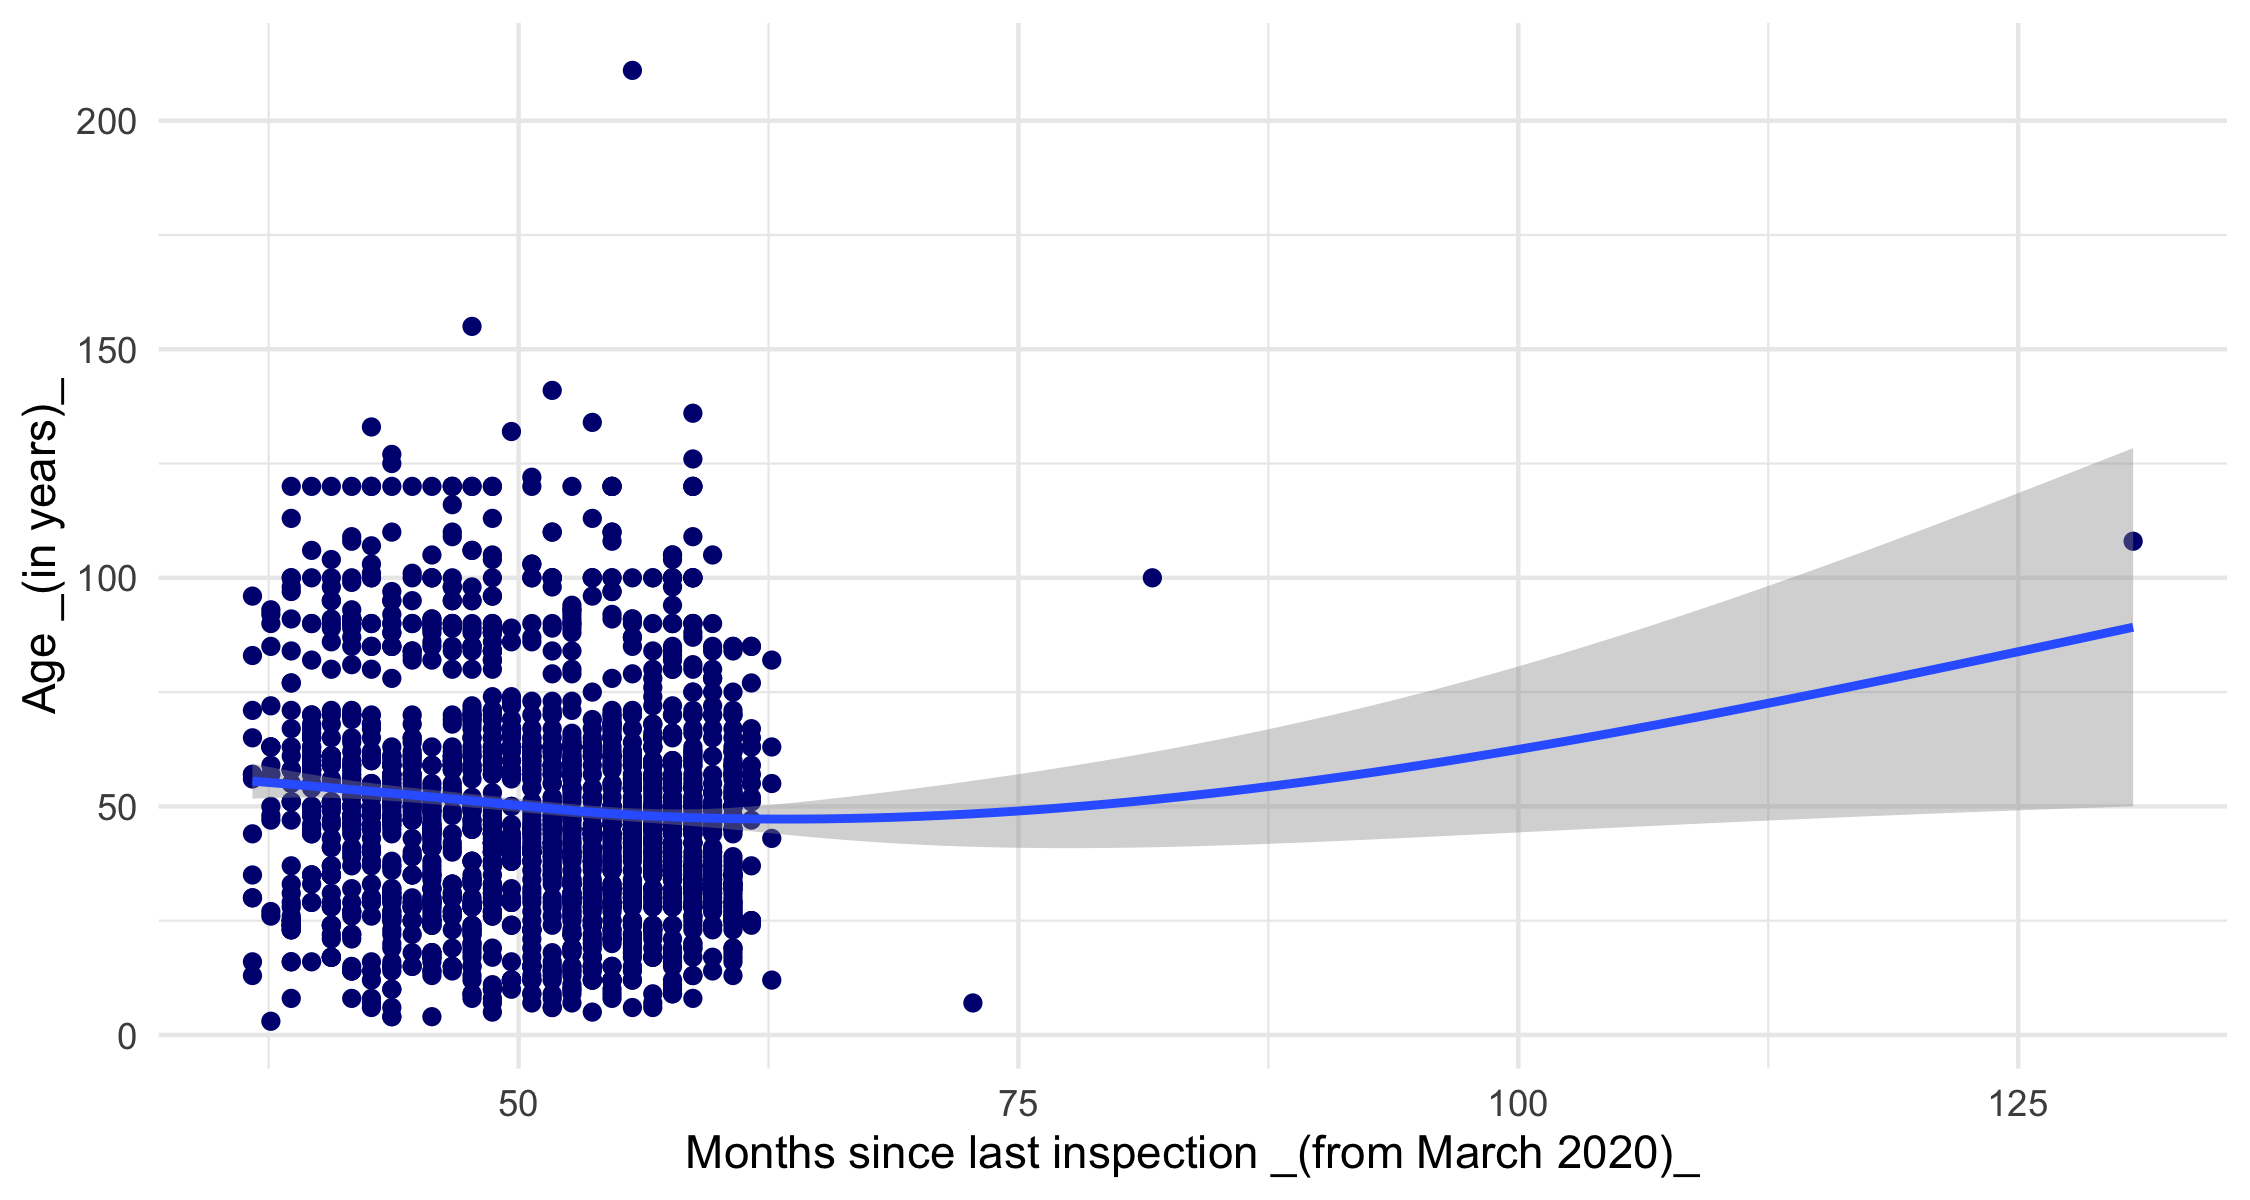
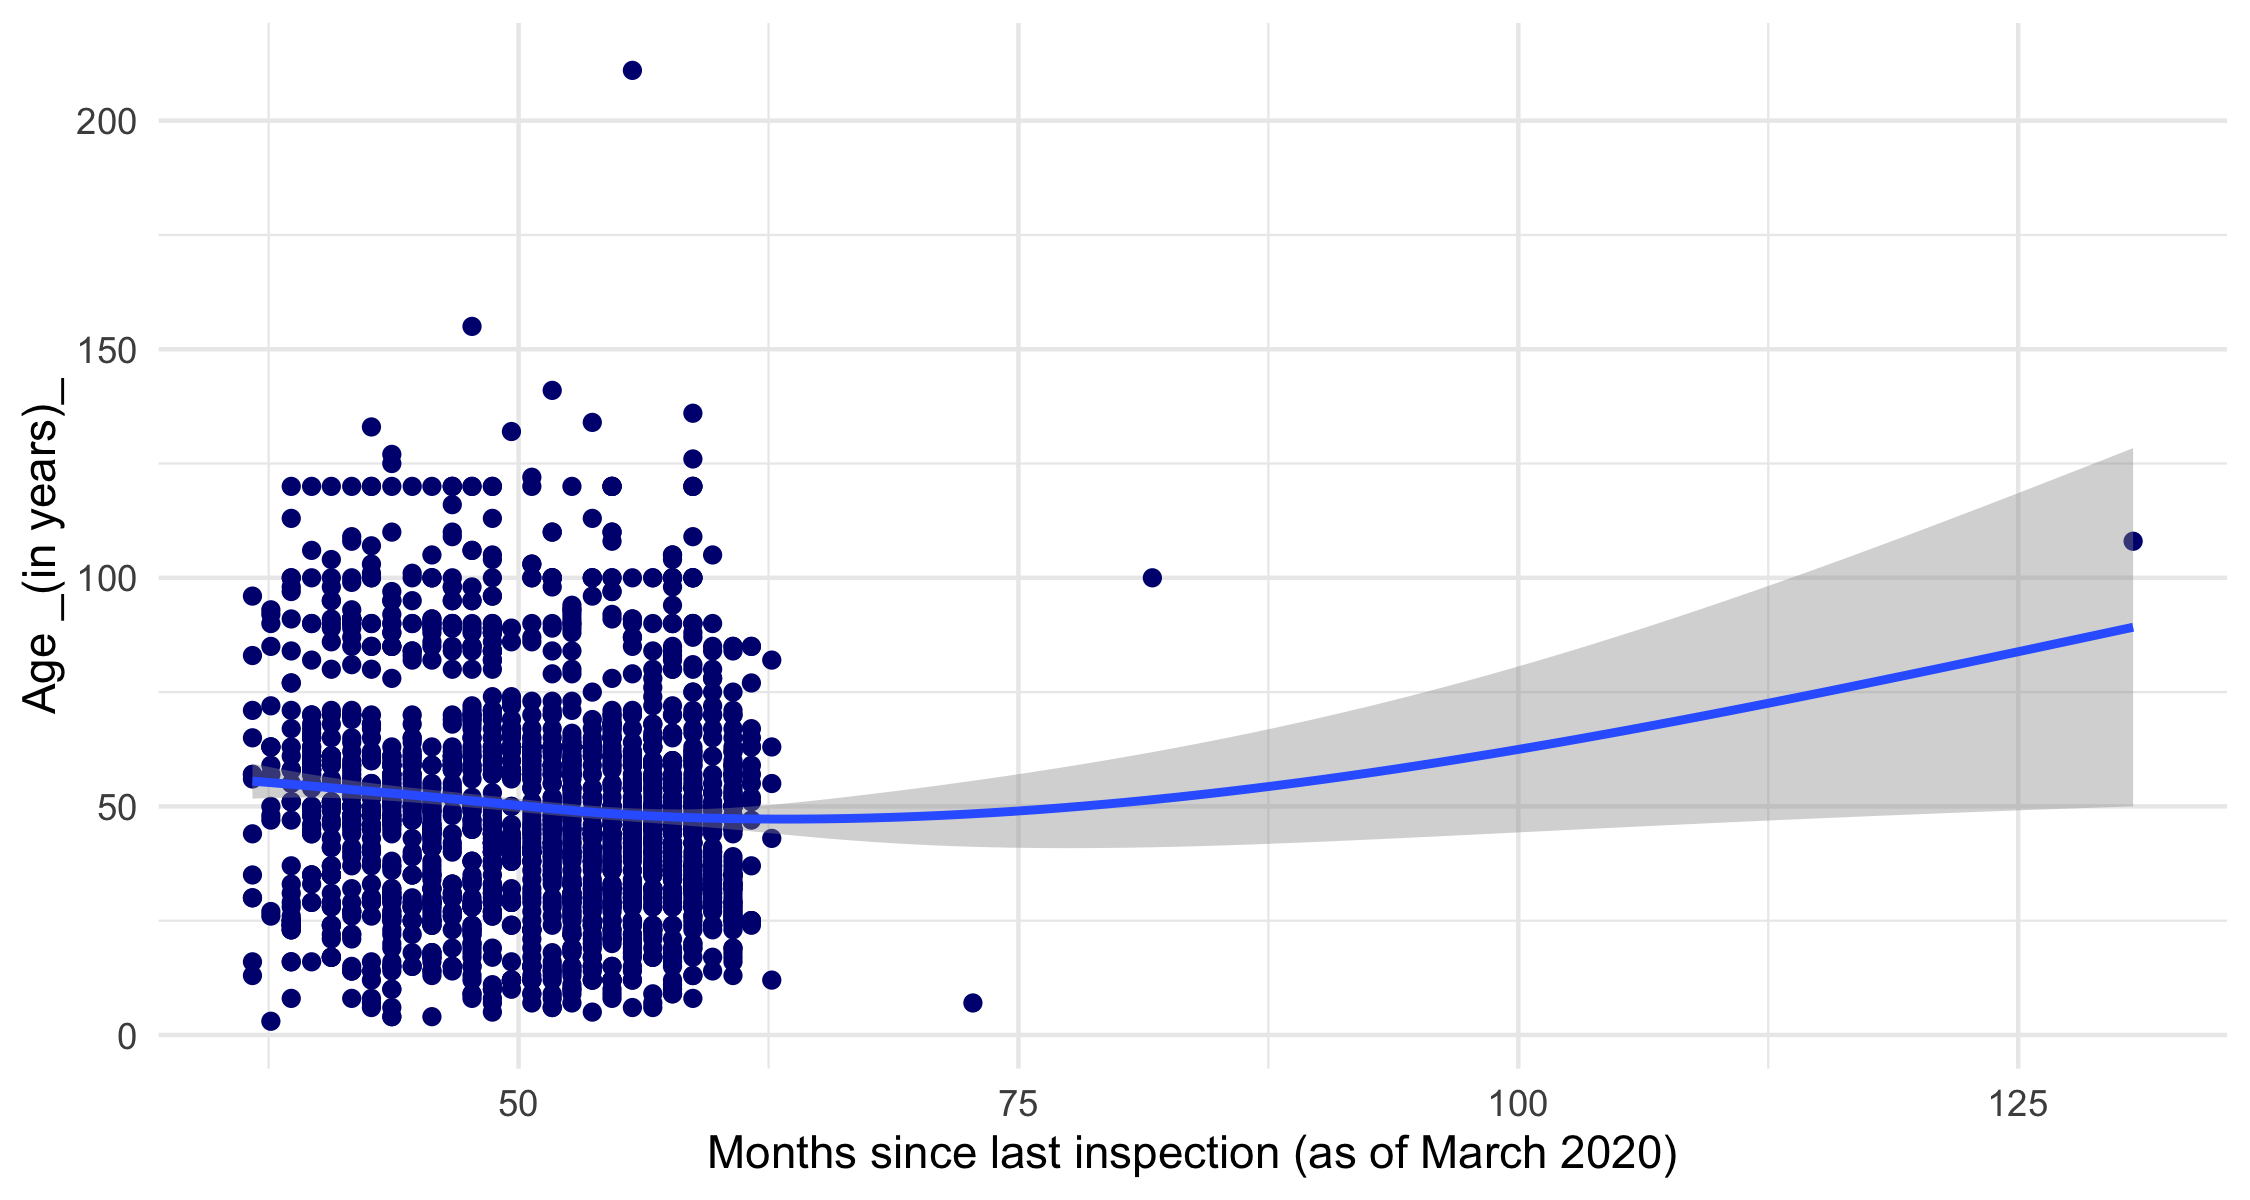
md bridges final

Changed region(s): [[0.3111, 0.925, 0.7467, 0.9867]]

diff --git a/2018/tt_2018-11-27_md_bridges/README.md b/2018/tt_2018-11-27_md_bridges/README.md
@@ -128,7 +128,7 @@ less time in months since last inspection than do the counties.
                 size = 5, color = "white", vjust = 1.6) +
       ylim(0, 60) +
       labs(title = "Median months since last inspection, by county",
-           subtitle = "_from March 2020_",
+           subtitle = "as of March 2020",
            x = "", y = "") +
       theme_minimal() +
       theme(panel.grid.major = element_blank(), panel.grid.minor = element_blank())
@@ -144,7 +144,7 @@ since last inspection.
       ggplot(aes(inspect_months, age)) +
       geom_point(color = "navy") +
       geom_smooth() +
-      labs(x = "Months since last inspection _(from March 2020)_",
+      labs(x = "Months since last inspection (as of March 2020)",
            y = "Age _(in years)_") +
       theme_minimal()
 
@@ -163,7 +163,7 @@ the clustering of most recent inspections.
       geom_point(color = "navy") +
       geom_smooth() +
       labs(title = "Months since inspection, outliers removed", 
-           x = "Months since last inspection _(from March 2020)_",
+           x = "Months since last inspection (as of March 2020)",
            y = "Age _(in years)_") +
       theme_minimal()
 
